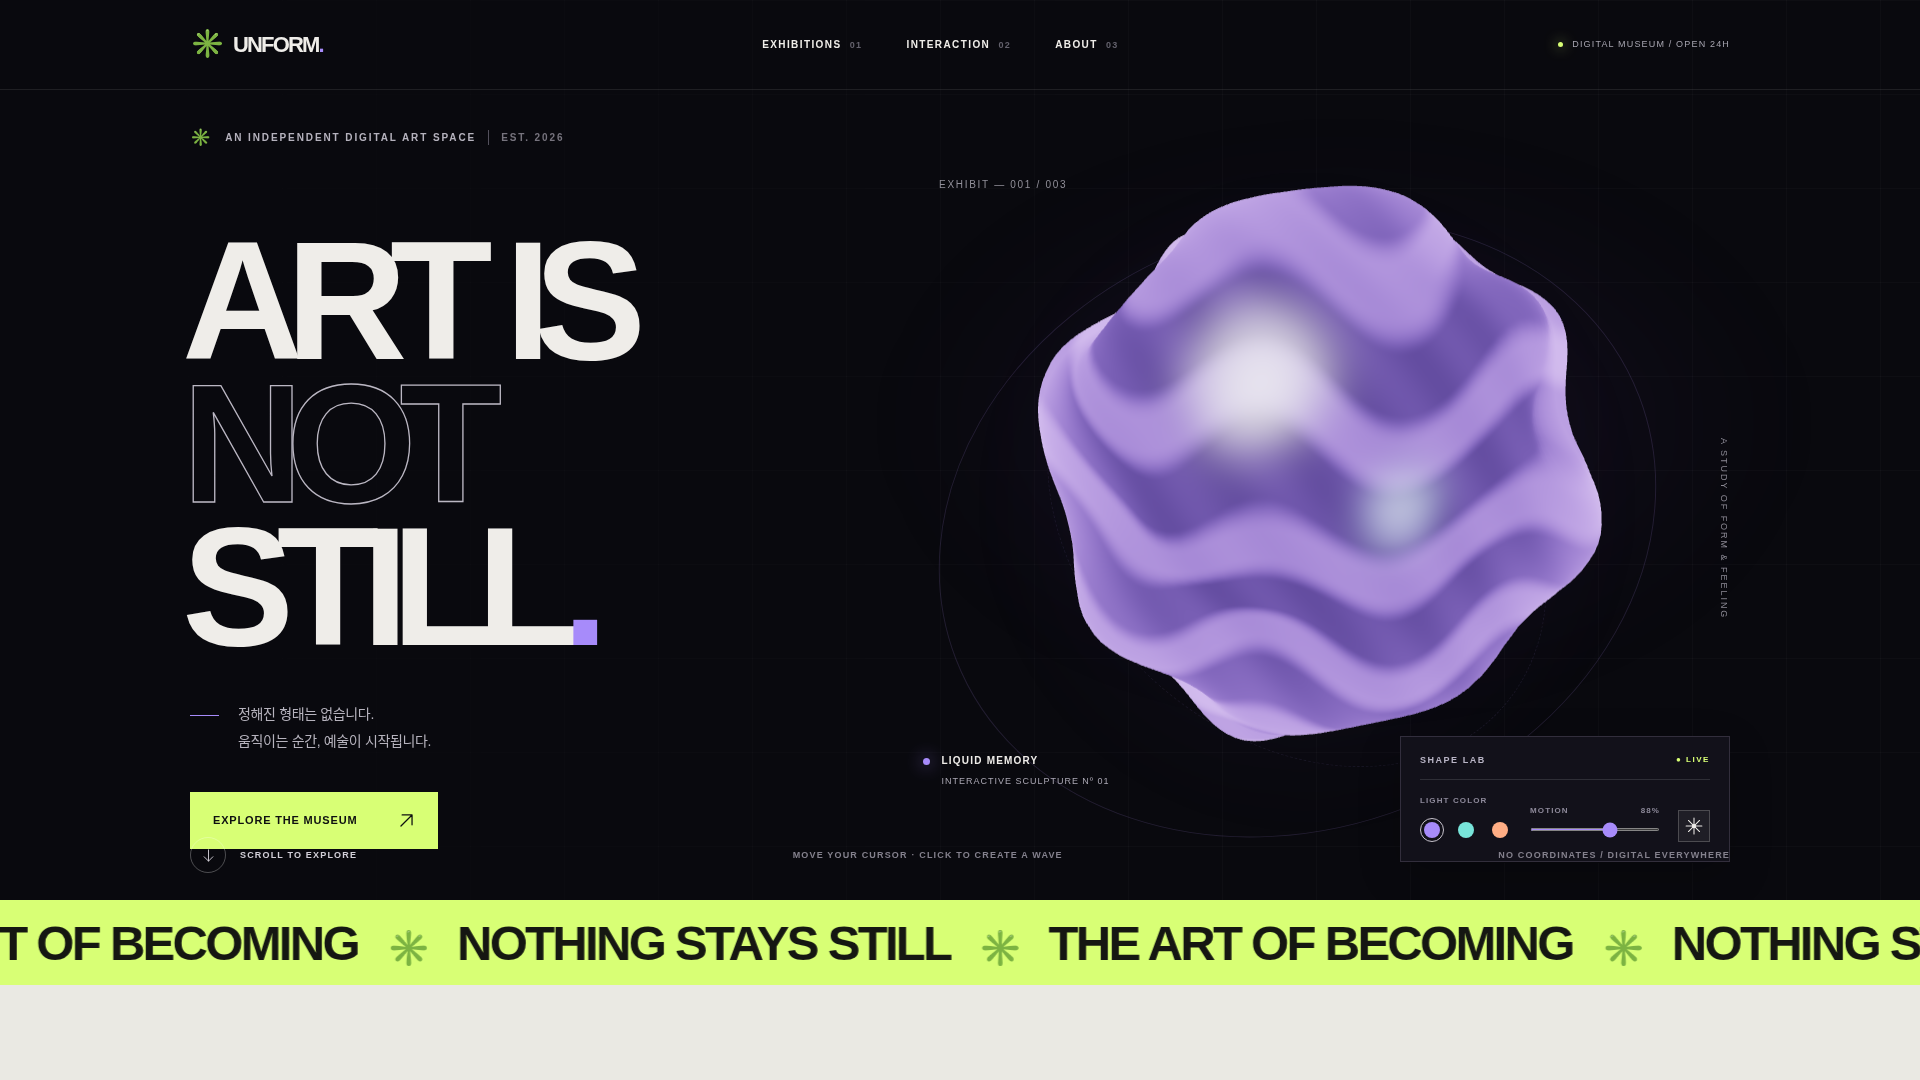
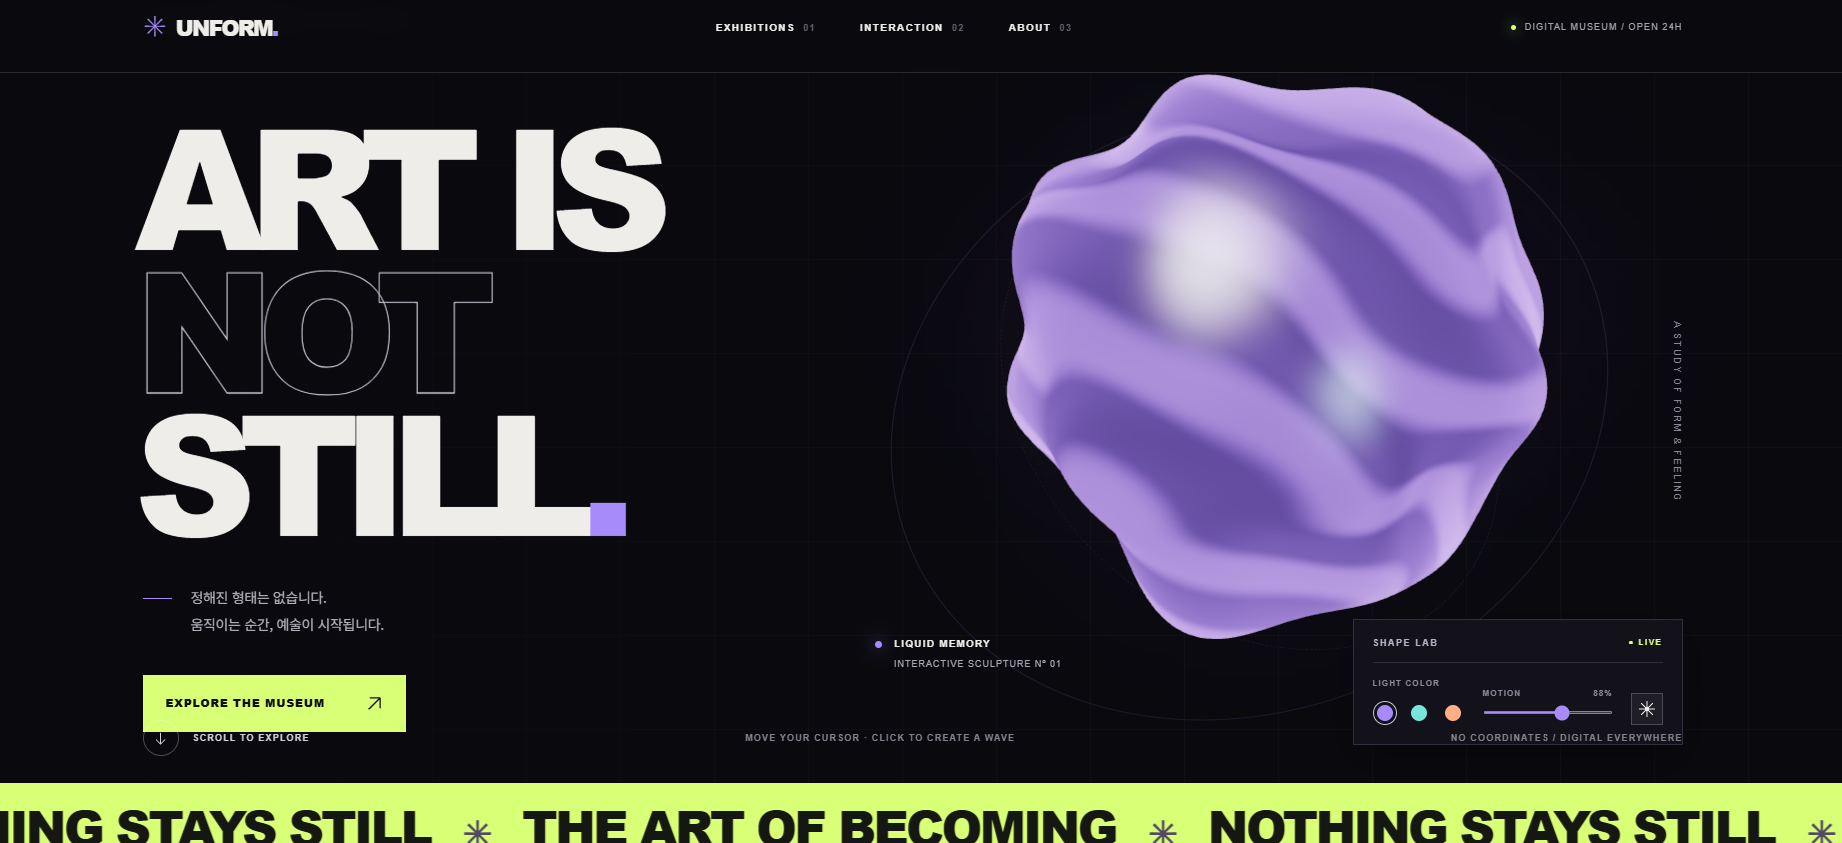
Replace UNFORM preview with supplied full-width capture

diff --git a/jy-web-portfolio/index.html b/jy-web-portfolio/index.html
@@ -255,8 +255,8 @@
                 aria-label="UNFORM 사이트 방문 (새 창)"
                 ><img
                   src="assets/images/unform.webp"
-                  width="1600"
-                  height="900"
+                  width="1842"
+                  height="843"
                   loading="lazy"
                   decoding="async"
                   alt="UNFORM Digital Museum 실제 웹사이트 화면"

diff --git a/jy-web-portfolio/en.html b/jy-web-portfolio/en.html
@@ -266,8 +266,8 @@
                 aria-label="Visit UNFORM (opens in a new tab)"
                 ><img
                   src="assets/images/unform.webp"
-                  width="1600"
-                  height="900"
+                  width="1842"
+                  height="843"
                   loading="lazy"
                   decoding="async"
                   alt="Screenshot of the UNFORM Digital Museum website"
